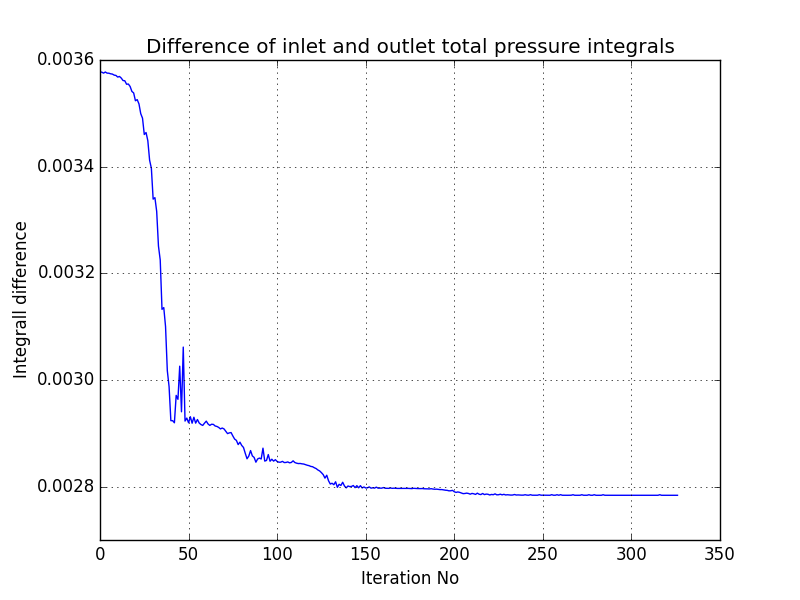
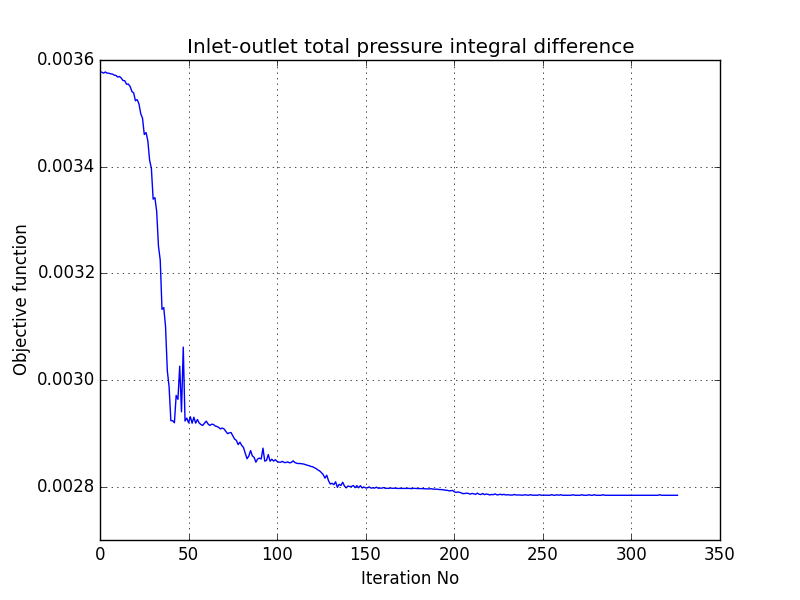
Changed figs descriptions, adding to inst05

Changed region(s): [[0.1875, 0.06, 0.8438, 0.09], [0.0, 0.36, 0.0312, 0.63]]

diff --git a/python_inst05.md b/python_inst05.md
@@ -4,7 +4,7 @@ course: Python
 material: Instrukcja 4
 author: W. Gryglas
 ---
-
+# Wprowadzenie
 ## Tworzenie własnych klas
 
 ## Uruchamianie zewnętrznych procesów
@@ -14,3 +14,16 @@ author: W. Gryglas
 ## Tworzenie własnych generatorów
 
 ## Tworzenie własnych modułów
+
+# Zadanie
+
+![kanal](figures/python_inst05/tube.png "Kanał do optymalizacji")
+
+![optymalizacja dwu parametryczna](figures/python_inst05/optimization_iteration.png "Optymalizacja dwu parametryczna, wartość funkcji celu w kolejnych iteracjach")
+
+![optymalizacja dwu parametryczna - prędkość](figures/python_inst05/opt_velocity.gif "Optymalizacja dwu parametryczna, pole prędkości") ![optymalizacja dwu parametryczna, ciśnienie całkowite](figures/python_inst05/opt_totalpressure.gif "Optymalizacja dwu parametryczna, pole ciśnienia całkowitego")
+
+![optymalizacja 4-parometrowa](figures/python_inst05/optimization_iteration_4params.png "Optymalizacja 4-parometrowa, wartość funkcji celu w kolejnych iteracjach")
+
+![optymalizacja 4-parometrowa - prędkość](figures/python_inst05/opt_velocity.gif "Optymalizacja 4-parometrowa, pole prędkości") ![optymalizacja 4-parometrowa, ciśnienie całkowite](figures/python_inst05/opt_totalpressure_4params.gif "Optymalizacja 4-parometrowa, pole ciśnienia całkowitego")
+
